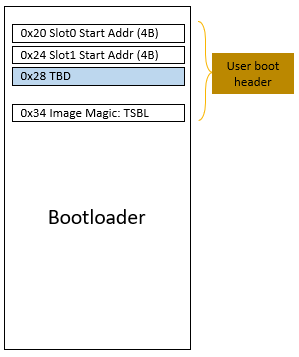
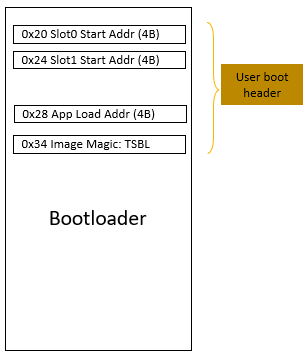
Can make bl image #2
- app non-xip load addr

Changed region(s): [[0.0, 0.0, 0.9933, 0.986], [0.1505, 0.5854, 0.4816, 0.6471]]

diff --git a/src/win/tinyOtaWin.py b/src/win/tinyOtaWin.py
@@ -43,7 +43,7 @@ class Ui_tinyOtaWin(object):
         self.label_norCfgOption0.setFont(font)
         self.label_norCfgOption0.setObjectName("label_norCfgOption0")
         self.lineEdit_norCfgOption0 = QtWidgets.QLineEdit(self.sysFrame)
-        self.lineEdit_norCfgOption0.setGeometry(QtCore.QRect(120, 100, 111, 20))
+        self.lineEdit_norCfgOption0.setGeometry(QtCore.QRect(120, 100, 111, 22))
         self.lineEdit_norCfgOption0.setAlignment(QtCore.Qt.AlignLeading|QtCore.Qt.AlignLeft|QtCore.Qt.AlignVCenter)
         self.lineEdit_norCfgOption0.setObjectName("lineEdit_norCfgOption0")
         self.label_norFlashModel = QtWidgets.QLabel(self.sysFrame)
@@ -102,7 +102,7 @@ class Ui_tinyOtaWin(object):
         self.label_norCfgOption1.setFont(font)
         self.label_norCfgOption1.setObjectName("label_norCfgOption1")
         self.lineEdit_norCfgOption1 = QtWidgets.QLineEdit(self.sysFrame)
-        self.lineEdit_norCfgOption1.setGeometry(QtCore.QRect(120, 130, 111, 20))
+        self.lineEdit_norCfgOption1.setGeometry(QtCore.QRect(120, 130, 111, 22))
         self.lineEdit_norCfgOption1.setAlignment(QtCore.Qt.AlignLeading|QtCore.Qt.AlignLeft|QtCore.Qt.AlignVCenter)
         self.lineEdit_norCfgOption1.setObjectName("lineEdit_norCfgOption1")
         self.commFrame = QtWidgets.QFrame(self.centralwidget)
@@ -248,11 +248,11 @@ class Ui_tinyOtaWin(object):
         self.label_rangeLength.setFont(font)
         self.label_rangeLength.setObjectName("label_rangeLength")
         self.lineEdit_rangeStart = QtWidgets.QLineEdit(self.otaFrame)
-        self.lineEdit_rangeStart.setGeometry(QtCore.QRect(130, 410, 81, 20))
+        self.lineEdit_rangeStart.setGeometry(QtCore.QRect(130, 410, 81, 22))
         self.lineEdit_rangeStart.setAlignment(QtCore.Qt.AlignLeading|QtCore.Qt.AlignLeft|QtCore.Qt.AlignVCenter)
         self.lineEdit_rangeStart.setObjectName("lineEdit_rangeStart")
         self.lineEdit_rangeLength = QtWidgets.QLineEdit(self.otaFrame)
-        self.lineEdit_rangeLength.setGeometry(QtCore.QRect(370, 410, 81, 20))
+        self.lineEdit_rangeLength.setGeometry(QtCore.QRect(370, 410, 81, 22))
         self.lineEdit_rangeLength.setAlignment(QtCore.Qt.AlignLeading|QtCore.Qt.AlignLeft|QtCore.Qt.AlignVCenter)
         self.lineEdit_rangeLength.setObjectName("lineEdit_rangeLength")
         self.pushButton_browseFile = QtWidgets.QPushButton(self.otaFrame)
@@ -277,7 +277,7 @@ class Ui_tinyOtaWin(object):
         self.pushButton_stage0BlFile.setFont(font)
         self.pushButton_stage0BlFile.setObjectName("pushButton_stage0BlFile")
         self.lineEdit_stage0BlFile = QtWidgets.QLineEdit(self.otaFrame)
-        self.lineEdit_stage0BlFile.setGeometry(QtCore.QRect(110, 40, 169, 22))
+        self.lineEdit_stage0BlFile.setGeometry(QtCore.QRect(110, 40, 221, 22))
         self.lineEdit_stage0BlFile.setAlignment(QtCore.Qt.AlignLeading|QtCore.Qt.AlignLeft|QtCore.Qt.AlignVCenter)
         self.lineEdit_stage0BlFile.setReadOnly(True)
         self.lineEdit_stage0BlFile.setObjectName("lineEdit_stage0BlFile")
@@ -306,107 +306,107 @@ class Ui_tinyOtaWin(object):
         self.pushButton_appSlot1File.setFont(font)
         self.pushButton_appSlot1File.setObjectName("pushButton_appSlot1File")
         self.lineEdit_stage1BlFile = QtWidgets.QLineEdit(self.otaFrame)
-        self.lineEdit_stage1BlFile.setGeometry(QtCore.QRect(110, 70, 169, 22))
+        self.lineEdit_stage1BlFile.setGeometry(QtCore.QRect(110, 70, 221, 22))
         self.lineEdit_stage1BlFile.setAlignment(QtCore.Qt.AlignLeading|QtCore.Qt.AlignLeft|QtCore.Qt.AlignVCenter)
         self.lineEdit_stage1BlFile.setReadOnly(True)
         self.lineEdit_stage1BlFile.setObjectName("lineEdit_stage1BlFile")
         self.lineEdit_appSlot0File = QtWidgets.QLineEdit(self.otaFrame)
-        self.lineEdit_appSlot0File.setGeometry(QtCore.QRect(110, 100, 169, 22))
+        self.lineEdit_appSlot0File.setGeometry(QtCore.QRect(110, 100, 221, 22))
         self.lineEdit_appSlot0File.setAlignment(QtCore.Qt.AlignLeading|QtCore.Qt.AlignLeft|QtCore.Qt.AlignVCenter)
         self.lineEdit_appSlot0File.setReadOnly(True)
         self.lineEdit_appSlot0File.setObjectName("lineEdit_appSlot0File")
         self.lineEdit_appSlot1File = QtWidgets.QLineEdit(self.otaFrame)
-        self.lineEdit_appSlot1File.setGeometry(QtCore.QRect(110, 130, 169, 22))
+        self.lineEdit_appSlot1File.setGeometry(QtCore.QRect(110, 130, 221, 22))
         self.lineEdit_appSlot1File.setAlignment(QtCore.Qt.AlignLeading|QtCore.Qt.AlignLeft|QtCore.Qt.AlignVCenter)
         self.lineEdit_appSlot1File.setReadOnly(True)
         self.lineEdit_appSlot1File.setObjectName("lineEdit_appSlot1File")
         self.label_FileStart = QtWidgets.QLabel(self.otaFrame)
-        self.label_FileStart.setGeometry(QtCore.QRect(290, 10, 81, 16))
+        self.label_FileStart.setGeometry(QtCore.QRect(340, 10, 81, 16))
         font = QtGui.QFont()
         font.setBold(True)
         font.setWeight(75)
         self.label_FileStart.setFont(font)
         self.label_FileStart.setObjectName("label_FileStart")
         self.lineEdit_fileStartS0BL = QtWidgets.QLineEdit(self.otaFrame)
-        self.lineEdit_fileStartS0BL.setGeometry(QtCore.QRect(290, 40, 81, 20))
+        self.lineEdit_fileStartS0BL.setGeometry(QtCore.QRect(340, 40, 81, 22))
         self.lineEdit_fileStartS0BL.setAlignment(QtCore.Qt.AlignLeading|QtCore.Qt.AlignLeft|QtCore.Qt.AlignVCenter)
         self.lineEdit_fileStartS0BL.setObjectName("lineEdit_fileStartS0BL")
         self.lineEdit_fileStartS1BL = QtWidgets.QLineEdit(self.otaFrame)
-        self.lineEdit_fileStartS1BL.setGeometry(QtCore.QRect(290, 70, 81, 20))
+        self.lineEdit_fileStartS1BL.setGeometry(QtCore.QRect(340, 70, 81, 22))
         self.lineEdit_fileStartS1BL.setAlignment(QtCore.Qt.AlignLeading|QtCore.Qt.AlignLeft|QtCore.Qt.AlignVCenter)
         self.lineEdit_fileStartS1BL.setObjectName("lineEdit_fileStartS1BL")
         self.lineEdit_fileStartAPP0 = QtWidgets.QLineEdit(self.otaFrame)
-        self.lineEdit_fileStartAPP0.setGeometry(QtCore.QRect(290, 100, 81, 20))
+        self.lineEdit_fileStartAPP0.setGeometry(QtCore.QRect(340, 100, 81, 22))
         self.lineEdit_fileStartAPP0.setAlignment(QtCore.Qt.AlignLeading|QtCore.Qt.AlignLeft|QtCore.Qt.AlignVCenter)
         self.lineEdit_fileStartAPP0.setObjectName("lineEdit_fileStartAPP0")
         self.lineEdit_fileStartAPP1 = QtWidgets.QLineEdit(self.otaFrame)
-        self.lineEdit_fileStartAPP1.setGeometry(QtCore.QRect(290, 130, 81, 20))
+        self.lineEdit_fileStartAPP1.setGeometry(QtCore.QRect(340, 130, 81, 22))
         self.lineEdit_fileStartAPP1.setAlignment(QtCore.Qt.AlignLeading|QtCore.Qt.AlignLeft|QtCore.Qt.AlignVCenter)
         self.lineEdit_fileStartAPP1.setObjectName("lineEdit_fileStartAPP1")
         self.label_imageVersion = QtWidgets.QLabel(self.otaFrame)
-        self.label_imageVersion.setGeometry(QtCore.QRect(380, 10, 81, 16))
+        self.label_imageVersion.setGeometry(QtCore.QRect(430, 70, 81, 16))
         font = QtGui.QFont()
         font.setBold(True)
         font.setWeight(75)
         self.label_imageVersion.setFont(font)
         self.label_imageVersion.setObjectName("label_imageVersion")
         self.lineEdit_app0VerMajor = QtWidgets.QLineEdit(self.otaFrame)
-        self.lineEdit_app0VerMajor.setGeometry(QtCore.QRect(390, 100, 31, 20))
+        self.lineEdit_app0VerMajor.setGeometry(QtCore.QRect(440, 100, 31, 22))
         self.lineEdit_app0VerMajor.setAlignment(QtCore.Qt.AlignLeading|QtCore.Qt.AlignLeft|QtCore.Qt.AlignVCenter)
         self.lineEdit_app0VerMajor.setObjectName("lineEdit_app0VerMajor")
         self.lineEdit_app0VerMinor = QtWidgets.QLineEdit(self.otaFrame)
-        self.lineEdit_app0VerMinor.setGeometry(QtCore.QRect(430, 100, 31, 20))
+        self.lineEdit_app0VerMinor.setGeometry(QtCore.QRect(480, 100, 31, 22))
         self.lineEdit_app0VerMinor.setAlignment(QtCore.Qt.AlignLeading|QtCore.Qt.AlignLeft|QtCore.Qt.AlignVCenter)
         self.lineEdit_app0VerMinor.setObjectName("lineEdit_app0VerMinor")
         self.label_v0 = QtWidgets.QLabel(self.otaFrame)
-        self.label_v0.setGeometry(QtCore.QRect(380, 102, 16, 16))
+        self.label_v0.setGeometry(QtCore.QRect(430, 103, 16, 16))
         font = QtGui.QFont()
         font.setBold(True)
         font.setWeight(75)
         self.label_v0.setFont(font)
         self.label_v0.setObjectName("label_v0")
         self.label_v1 = QtWidgets.QLabel(self.otaFrame)
-        self.label_v1.setGeometry(QtCore.QRect(380, 132, 16, 16))
+        self.label_v1.setGeometry(QtCore.QRect(430, 133, 16, 16))
         font = QtGui.QFont()
         font.setBold(True)
         font.setWeight(75)
         self.label_v1.setFont(font)
         self.label_v1.setObjectName("label_v1")
         self.lineEdit_app1VerMajor = QtWidgets.QLineEdit(self.otaFrame)
-        self.lineEdit_app1VerMajor.setGeometry(QtCore.QRect(390, 130, 31, 20))
+        self.lineEdit_app1VerMajor.setGeometry(QtCore.QRect(440, 130, 31, 22))
         self.lineEdit_app1VerMajor.setAlignment(QtCore.Qt.AlignLeading|QtCore.Qt.AlignLeft|QtCore.Qt.AlignVCenter)
         self.lineEdit_app1VerMajor.setObjectName("lineEdit_app1VerMajor")
         self.lineEdit_app1VerMinor = QtWidgets.QLineEdit(self.otaFrame)
-        self.lineEdit_app1VerMinor.setGeometry(QtCore.QRect(430, 130, 31, 20))
+        self.lineEdit_app1VerMinor.setGeometry(QtCore.QRect(480, 130, 31, 22))
         self.lineEdit_app1VerMinor.setAlignment(QtCore.Qt.AlignLeading|QtCore.Qt.AlignLeft|QtCore.Qt.AlignVCenter)
         self.lineEdit_app1VerMinor.setObjectName("lineEdit_app1VerMinor")
         self.label_v1p = QtWidgets.QLabel(self.otaFrame)
-        self.label_v1p.setGeometry(QtCore.QRect(423, 132, 16, 16))
+        self.label_v1p.setGeometry(QtCore.QRect(473, 134, 16, 16))
         font = QtGui.QFont()
         font.setBold(True)
         font.setWeight(75)
         self.label_v1p.setFont(font)
         self.label_v1p.setObjectName("label_v1p")
         self.label_v0p = QtWidgets.QLabel(self.otaFrame)
-        self.label_v0p.setGeometry(QtCore.QRect(423, 102, 16, 16))
+        self.label_v0p.setGeometry(QtCore.QRect(473, 104, 16, 16))
         font = QtGui.QFont()
         font.setBold(True)
         font.setWeight(75)
         self.label_v0p.setFont(font)
         self.label_v0p.setObjectName("label_v0p")
         self.label_integrity = QtWidgets.QLabel(self.otaFrame)
-        self.label_integrity.setGeometry(QtCore.QRect(480, 10, 81, 16))
+        self.label_integrity.setGeometry(QtCore.QRect(430, 10, 81, 16))
         font = QtGui.QFont()
         font.setBold(True)
         font.setWeight(75)
         self.label_integrity.setFont(font)
         self.label_integrity.setObjectName("label_integrity")
         self.comboBox_integrity = QtWidgets.QComboBox(self.otaFrame)
-        self.comboBox_integrity.setGeometry(QtCore.QRect(470, 110, 71, 28))
+        self.comboBox_integrity.setGeometry(QtCore.QRect(430, 40, 81, 22))
         self.comboBox_integrity.setObjectName("comboBox_integrity")
         self.comboBox_integrity.addItem("")
         self.pushButton_makeAPP0 = QtWidgets.QPushButton(self.otaFrame)
-        self.pushButton_makeAPP0.setGeometry(QtCore.QRect(550, 100, 51, 25))
+        self.pushButton_makeAPP0.setGeometry(QtCore.QRect(520, 100, 81, 25))
         font = QtGui.QFont()
         font.setFamily("MS Shell Dlg 2")
         font.setBold(True)
@@ -414,7 +414,7 @@ class Ui_tinyOtaWin(object):
         self.pushButton_makeAPP0.setFont(font)
         self.pushButton_makeAPP0.setObjectName("pushButton_makeAPP0")
         self.pushButton_makeAPP1 = QtWidgets.QPushButton(self.otaFrame)
-        self.pushButton_makeAPP1.setGeometry(QtCore.QRect(550, 130, 51, 25))
+        self.pushButton_makeAPP1.setGeometry(QtCore.QRect(520, 130, 81, 25))
         font = QtGui.QFont()
         font.setFamily("MS Shell Dlg 2")
         font.setBold(True)
@@ -422,7 +422,7 @@ class Ui_tinyOtaWin(object):
         self.pushButton_makeAPP1.setFont(font)
         self.pushButton_makeAPP1.setObjectName("pushButton_makeAPP1")
         self.pushButton_downloadAPP0 = QtWidgets.QPushButton(self.otaFrame)
-        self.pushButton_downloadAPP0.setGeometry(QtCore.QRect(610, 100, 71, 25))
+        self.pushButton_downloadAPP0.setGeometry(QtCore.QRect(610, 100, 101, 25))
         font = QtGui.QFont()
         font.setFamily("MS Shell Dlg 2")
         font.setBold(True)
@@ -430,7 +430,7 @@ class Ui_tinyOtaWin(object):
         self.pushButton_downloadAPP0.setFont(font)
         self.pushButton_downloadAPP0.setObjectName("pushButton_downloadAPP0")
         self.pushButton_downloadAPP1 = QtWidgets.QPushButton(self.otaFrame)
-        self.pushButton_downloadAPP1.setGeometry(QtCore.QRect(610, 130, 71, 25))
+        self.pushButton_downloadAPP1.setGeometry(QtCore.QRect(610, 130, 101, 25))
         font = QtGui.QFont()
         font.setFamily("MS Shell Dlg 2")
         font.setBold(True)
@@ -438,7 +438,7 @@ class Ui_tinyOtaWin(object):
         self.pushButton_downloadAPP1.setFont(font)
         self.pushButton_downloadAPP1.setObjectName("pushButton_downloadAPP1")
         self.pushButton_downloadS1BL = QtWidgets.QPushButton(self.otaFrame)
-        self.pushButton_downloadS1BL.setGeometry(QtCore.QRect(610, 70, 71, 25))
+        self.pushButton_downloadS1BL.setGeometry(QtCore.QRect(610, 70, 101, 25))
         font = QtGui.QFont()
         font.setFamily("MS Shell Dlg 2")
         font.setBold(True)
@@ -446,7 +446,7 @@ class Ui_tinyOtaWin(object):
         self.pushButton_downloadS1BL.setFont(font)
         self.pushButton_downloadS1BL.setObjectName("pushButton_downloadS1BL")
         self.pushButton_downloadS0BL = QtWidgets.QPushButton(self.otaFrame)
-        self.pushButton_downloadS0BL.setGeometry(QtCore.QRect(610, 40, 71, 25))
+        self.pushButton_downloadS0BL.setGeometry(QtCore.QRect(610, 40, 101, 25))
         font = QtGui.QFont()
         font.setFamily("MS Shell Dlg 2")
         font.setBold(True)
@@ -454,7 +454,7 @@ class Ui_tinyOtaWin(object):
         self.pushButton_downloadS0BL.setFont(font)
         self.pushButton_downloadS0BL.setObjectName("pushButton_downloadS0BL")
         self.pushButton_makeS1BL = QtWidgets.QPushButton(self.otaFrame)
-        self.pushButton_makeS1BL.setGeometry(QtCore.QRect(550, 70, 51, 25))
+        self.pushButton_makeS1BL.setGeometry(QtCore.QRect(520, 70, 81, 25))
         font = QtGui.QFont()
         font.setFamily("MS Shell Dlg 2")
         font.setBold(True)
@@ -469,7 +469,7 @@ class Ui_tinyOtaWin(object):
         self.label_sourceFilePath.setFont(font)
         self.label_sourceFilePath.setObjectName("label_sourceFilePath")
         self.pushButton_allInOne = QtWidgets.QPushButton(self.otaFrame)
-        self.pushButton_allInOne.setGeometry(QtCore.QRect(550, 10, 131, 25))
+        self.pushButton_allInOne.setGeometry(QtCore.QRect(610, 10, 101, 25))
         font = QtGui.QFont()
         font.setFamily("MS Shell Dlg 2")
         font.setBold(True)
@@ -487,6 +487,17 @@ class Ui_tinyOtaWin(object):
         font.setWeight(75)
         self.pushButton_eraseChip.setFont(font)
         self.pushButton_eraseChip.setObjectName("pushButton_eraseChip")
+        self.lineEdit_appLoadAddr = QtWidgets.QLineEdit(self.otaFrame)
+        self.lineEdit_appLoadAddr.setGeometry(QtCore.QRect(520, 40, 81, 22))
+        self.lineEdit_appLoadAddr.setAlignment(QtCore.Qt.AlignLeading|QtCore.Qt.AlignLeft|QtCore.Qt.AlignVCenter)
+        self.lineEdit_appLoadAddr.setObjectName("lineEdit_appLoadAddr")
+        self.label_appLoadAddr = QtWidgets.QLabel(self.otaFrame)
+        self.label_appLoadAddr.setGeometry(QtCore.QRect(520, 10, 91, 16))
+        font = QtGui.QFont()
+        font.setBold(True)
+        font.setWeight(75)
+        self.label_appLoadAddr.setFont(font)
+        self.label_appLoadAddr.setObjectName("label_appLoadAddr")
         tinyOtaWin.setCentralWidget(self.centralwidget)
         self.menubar = QtWidgets.QMenuBar(tinyOtaWin)
         self.menubar.setGeometry(QtCore.QRect(0, 0, 990, 21))
@@ -623,16 +634,18 @@ class Ui_tinyOtaWin(object):
         self.label_v0p.setText(_translate("tinyOtaWin", "."))
         self.label_integrity.setText(_translate("tinyOtaWin", "Integrity"))
         self.comboBox_integrity.setItemText(0, _translate("tinyOtaWin", "CRC32"))
-        self.pushButton_makeAPP0.setText(_translate("tinyOtaWin", "Make"))
-        self.pushButton_makeAPP1.setText(_translate("tinyOtaWin", "Make"))
-        self.pushButton_downloadAPP0.setText(_translate("tinyOtaWin", "Download"))
-        self.pushButton_downloadAPP1.setText(_translate("tinyOtaWin", "Download"))
-        self.pushButton_downloadS1BL.setText(_translate("tinyOtaWin", "Download"))
-        self.pushButton_downloadS0BL.setText(_translate("tinyOtaWin", "Download"))
-        self.pushButton_makeS1BL.setText(_translate("tinyOtaWin", "Make"))
+        self.pushButton_makeAPP0.setText(_translate("tinyOtaWin", "Make App0"))
+        self.pushButton_makeAPP1.setText(_translate("tinyOtaWin", "Make App1"))
+        self.pushButton_downloadAPP0.setText(_translate("tinyOtaWin", "Download App0"))
+        self.pushButton_downloadAPP1.setText(_translate("tinyOtaWin", "Download App1"))
+        self.pushButton_downloadS1BL.setText(_translate("tinyOtaWin", "Download BL1"))
+        self.pushButton_downloadS0BL.setText(_translate("tinyOtaWin", "Download BL0"))
+        self.pushButton_makeS1BL.setText(_translate("tinyOtaWin", "Make BL1"))
         self.label_sourceFilePath.setText(_translate("tinyOtaWin", "Source Binary File Path"))
         self.pushButton_allInOne.setText(_translate("tinyOtaWin", "All In One"))
         self.pushButton_eraseChip.setText(_translate("tinyOtaWin", "Chip Erase"))
+        self.lineEdit_appLoadAddr.setText(_translate("tinyOtaWin", "0x0"))
+        self.label_appLoadAddr.setText(_translate("tinyOtaWin", "App Load Addr"))
         self.menuFile.setTitle(_translate("tinyOtaWin", "File"))
         self.menuEdit.setTitle(_translate("tinyOtaWin", "Edit"))
         self.menuView.setTitle(_translate("tinyOtaWin", "View"))

diff --git a/src/ui/uicore.py b/src/ui/uicore.py
@@ -416,6 +416,7 @@ class tinyOtaUi(QMainWindow, tinyOtaWin.Ui_tinyOtaWin):
         self.lineEdit_fileStartS1BL.setText(self.toolCommDict['fileStartS1BL'])
         self.lineEdit_fileStartAPP0.setText(self.toolCommDict['fileStartAPP0'])
         self.lineEdit_fileStartAPP1.setText(self.toolCommDict['fileStartAPP1'])
+        self.lineEdit_appLoadAddr.setText(self.toolCommDict['appLoadAddr'])
         self.lineEdit_app0VerMajor.setText(self.toolCommDict['app0VersionH'])
         self.lineEdit_app0VerMinor.setText(self.toolCommDict['app0VersionL'])
         self.lineEdit_app1VerMajor.setText(self.toolCommDict['app1VersionH'])
@@ -584,6 +585,14 @@ class tinyOtaUi(QMainWindow, tinyOtaWin.Ui_tinyOtaWin):
         uivar.setAdvancedSettings(uidef.kAdvancedSettings_Tool, self.toolCommDict)
         if status:
             self.otaMemStart = val32
+
+    def getAppLoadAddress( self ):
+        self.appLoadAddr = None
+        self.toolCommDict['appLoadAddr'] = self.lineEdit_appLoadAddr.text()
+        status, val32 = self.getVal32FromHexText(self.lineEdit_appLoadAddr.text())
+        uivar.setAdvancedSettings(uidef.kAdvancedSettings_Tool, self.toolCommDict)
+        if status:
+            self.appLoadAddr = val32
         
     def browseOtaFile( self, fileType = 'stage0Bl' ):
         path, _ = QFileDialog.getOpenFileName(

diff --git a/src/mem/memcore.py b/src/mem/memcore.py
@@ -237,11 +237,13 @@ class tinyOtaMem(runcore.tinyOtaRun):
             app0MemStart = self.otaMemStart
             self.getOtaFileStartAddress(uidef.kOtaFileType_APP1)
             app1MemStart = self.otaMemStart
-            if app0MemStart == None or app1MemStart == None:
+            self.getAppLoadAddress()
+            if app0MemStart == None or app1MemStart == None or self.appLoadAddr == None:
                 return False
             shutil.copy(self.stage1BlFile, self.stage1BlFileTemp)
             self.replace_word_in_binary(self.stage1BlFileTemp, memdef.kImageHeaderWordOffset_App0LoadAddr, app0MemStart)
             self.replace_word_in_binary(self.stage1BlFileTemp, memdef.kImageHeaderWordOffset_App1LoadAddr, app1MemStart)
+            self.replace_word_in_binary(self.stage1BlFileTemp, memdef.kImageHeaderWordOffset_AppLoadAddr, self.appLoadAddr)
             self.replace_word_in_binary(self.stage1BlFileTemp, memdef.kImageHeaderWordOffset_Magic, memdef.kImageHeaderMagicWord_Boot)
         elif fileType == uidef.kOtaFileType_APP0:
             version = self.getAppVersion(0)

diff --git a/src/ui/uivar.py b/src/ui/uivar.py
@@ -27,6 +27,7 @@ g_toolCommDict = {'mcuDevice':None,
                   'app0VersionL':None,
                   'app1VersionH':None,
                   'app1VersionL':None,
+                  'appLoadAddr':None,
                   'rangeStart':None,
                   'rangeLength':None,
                   'memFile':None,
@@ -66,6 +67,7 @@ def initVar(cfgFilename):
                           'app0VersionL':255,
                           'app1VersionH':255,
                           'app1VersionL':255,
+                          'appLoadAddr':'0x0',
                           'rangeStart':'0x0',
                           'rangeLength':'0x2000',
                           'memFile':'File Path',

diff --git a/src/mem/memdef.py b/src/mem/memdef.py
@@ -15,4 +15,5 @@ kImageHeaderMagicWord_App    =0x50504154 #0x54 ('T'), 0x41 ('A'), 0x50 ('P'), 0x
 
 kImageHeaderWordOffset_App0LoadAddr = 8
 kImageHeaderWordOffset_App1LoadAddr = 9
+kImageHeaderWordOffset_AppLoadAddr  = 10
 kImageHeaderMagicWord_Boot   =0x4C425354 #0x54 ('T'), 0x53 ('S'), 0x42 ('B'), 0x4C ('L')
